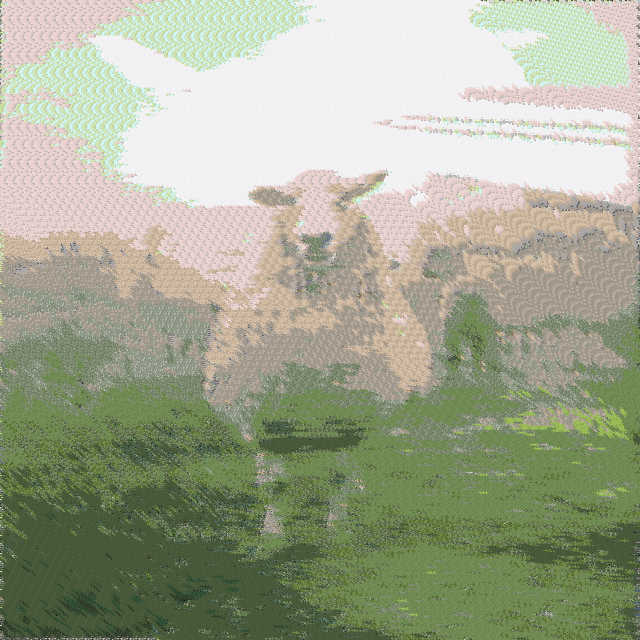
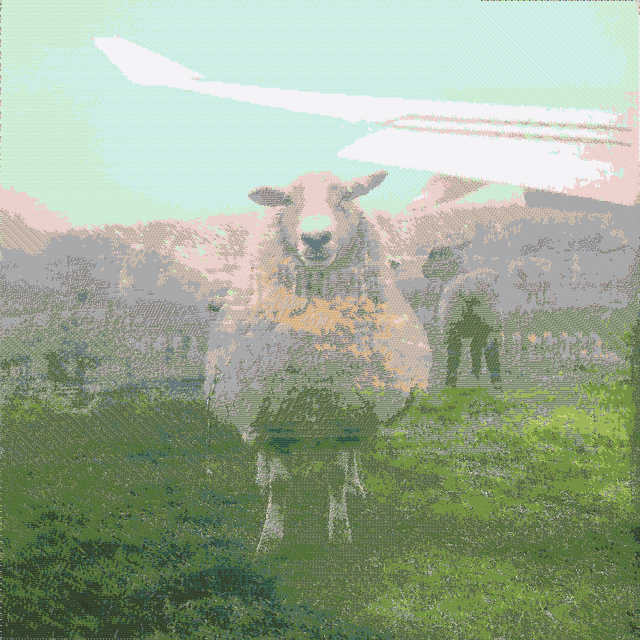
0076 - node --harmony /index.js

diff --git a/sketches/0076/index.js b/sketches/0076/index.js
@@ -65,7 +65,7 @@ var getPath = function(imgId){
 
 co(function*(){
 
-	var BLOCK_SIZE = 18;
+	var BLOCK_SIZE = 6;
 	var NUM_COLORS = 32;
 
 	var mash = function(a){
